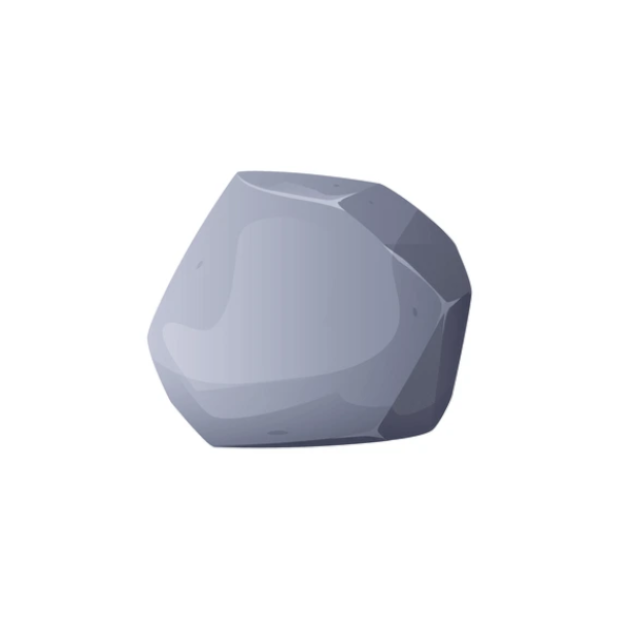
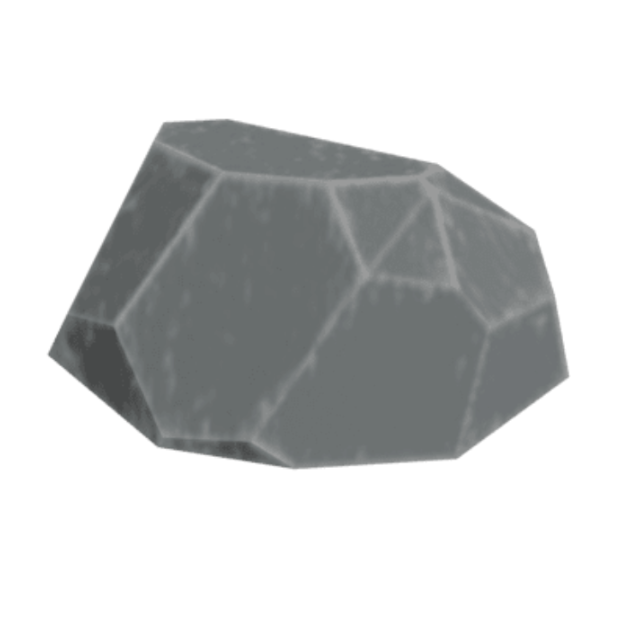
remove bootstrap and change images

diff --git a/index.html b/index.html
@@ -3,7 +3,6 @@
 <head>
     <meta charset="UTF-8">
     <meta name="viewport" content="width=device-width, initial-scale=1.0">
-    <link href="https://cdn.jsdelivr.net/npm/bootstrap@5.3.3/dist/css/bootstrap.min.css" rel="stylesheet" integrity="sha384-QWTKZyjpPEjISv5WaRU9OFeRpok6YctnYmDr5pNlyT2bRjXh0JMhjY6hW+ALEwIH" crossorigin="anonymous">
     <link rel="stylesheet" href="style.css">
     <title>Rock Paper Scissors</title>
 </head>
@@ -14,30 +13,29 @@
                 <h3 class="card-title">Computer Choice:</h3>
                 <p class="card-text" id="computer-choice">?<p>
                 </div>
-                <img src="img/start.png" class="card-img-top" alt="not selected" id="computer-choice-img">
+                <img src="img/start.png" alt="not selected" id="computer-choice-img">
           </div>
           <div class="card">
               <div class="card-body">
                 <h3 class="card-title">Your Choice:</h3>
                 <p class="card-text" id="user-choice">?</p>
                 </div>
-                <img src="img/start.png" class="card-img-top" alt="not selected" id="user-choice-img">
+                <img src="img/start.png" alt="not selected" id="user-choice-img">
           </div>
     </div>
     <div class="selection-page" id="select-modal">
         <h2>Choose your option:</h2>
         <div class="buttons">
-            <button type="button" class="btn btn-secondary" id="rock">Rock</button>
-            <button type="button" class="btn btn-secondary" id="paper">Paper</button>
-            <button type="button" class="btn btn-secondary" id="scissors">Scissors</button>
+            <button type="button" class="btn btn-select" id="rock">Rock</button>
+            <button type="button" class="btn btn-select" id="paper">Paper</button>
+            <button type="button" class="btn btn-select" id="scissors">Scissors</button>
         </div>
     </div>
     <div class="result-page" id="result-modal">
         <h2>Result:</h2>
         <span id="result">you win</span>
-        <button type="button" class="btn btn-light" id="play-again">Play again</button>
+        <button type="button" class="btn btn-play-again" id="play-again">Play again</button>
     </div>
     <script src="app.js"></script>
-    <script src="https://cdn.jsdelivr.net/npm/bootstrap@5.3.3/dist/js/bootstrap.bundle.min.js" integrity="sha384-YvpcrYf0tY3lHB60NNkmXc5s9fDVZLESaAA55NDzOxhy9GkcIdslK1eN7N6jIeHz" crossorigin="anonymous"></script>
 </body>
 </html>

diff --git a/style.css b/style.css
@@ -7,6 +7,7 @@
     --background-color: rgb(160, 236, 255);
     --container-color: rgb(59, 98, 253);
     --modal-background: rgba(25, 42, 104, 0.608);
+    --background-color-card:rgb(255, 255, 255);
 }
 body{
     background-color: var(--background-color);
@@ -22,20 +23,26 @@ body{
     align-items: center;
     justify-content: space-evenly;
     width: 60%;
-    height: 50%;
+    height: 60%;
     border-radius: 10px;
     box-shadow: 10px 10px 19px rgba(31, 31, 31, 0.847);
 }
 .card-text{
-    font-size: 2em;
+    font-size: 3em;
+    text-align: center;
 }
-.card-text,.card-title{
+.card-title{
+    font-size: 2em;
     text-align: center;
 }
 .card{
     padding: 20px;
     width: 20rem;
     box-shadow: 2px 2px 20px rgba(26, 26, 26, 0.681);
+    background-color: var(--background-color-card);
+}
+.card>img{
+    width: 100%;
 }
 .selection-page{
     width: 100vw;

diff --git a/app.js b/app.js
@@ -1,7 +1,7 @@
 const computerChoiceDisplay = document.getElementById('computer-choice');
 const userChoiceDisplay = document.getElementById('user-choice');
 const resultDisplay = document.getElementById('result');
-const buttons = document.querySelectorAll('.btn-secondary');
+const buttons = document.querySelectorAll('.btn-select');
 const selectionPage = document.getElementById("select-modal");
 const resultPage = document.getElementById("result-modal");
 const playAgainButton = document.getElementById('play-again');
